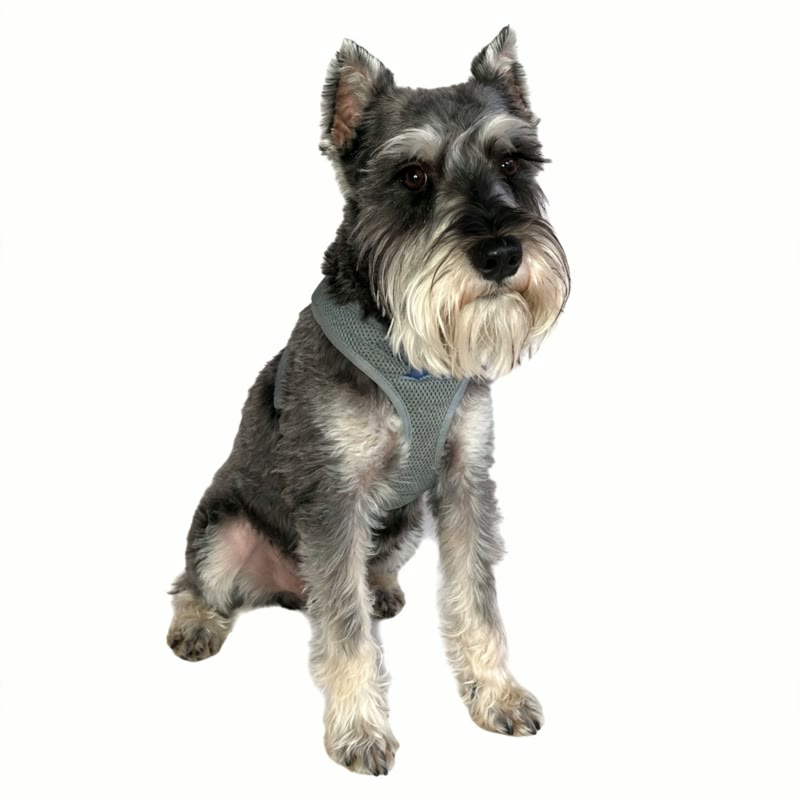
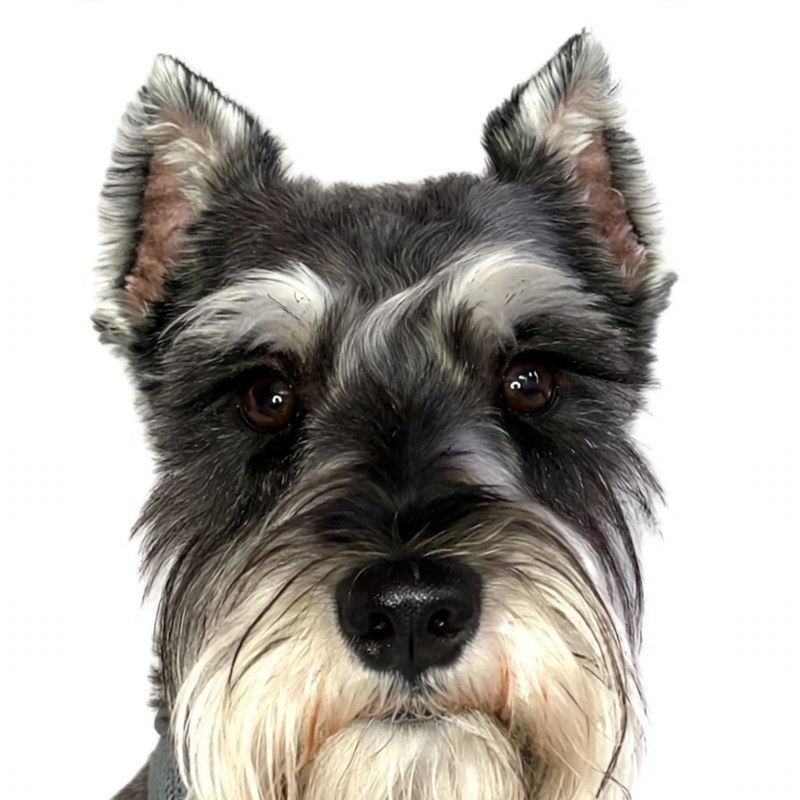
stage v8: v2 portrait puppet (Howard-approved likeness) — puppet2 layers from lash-portrait-v2.png, v2 medallion poster; v1 assets kept

diff --git a/stage.html b/stage.html
@@ -297,16 +297,18 @@ function faceTalk(on) { faceShow(on ? 'talk' : 'idle'); }
 // envelope (text lane, relay-WS and GitHub transports) get a synthesized
 // envelope from the text: one decaying pulse per syllable.
 //
-// Geometry constants mirror puppet/manifest.json (frame = the 900x900
-// crop at source (470,0) of the avatar still).
+// Geometry constants mirror puppet/manifest2.json (stage v8 layers:
+// frame = the 1000x1000 region at source (318,20) of the approved
+// front-facing portrait lash-portrait-v2.png, resampled x0.9 onto the
+// 900x900 canvas — see puppet/cut_layers_v2.py).
 const PUP_EAR = {
-  L: {dx: 140, dy: 35, px: 230, py: 335, img: 'earL', dir: -1},
-  R: {dx: 505, dy: 25, px: 582, py: 232, img: 'earR', dir: 1},
+  L: {dx: 123, dy: 4, px: 258, py: 338, img: 'earL', dir: -1},
+  R: {dx: 474, dy: 0, px: 625, py: 322, img: 'earR', dir: 1},
 };
-const PUP_WARP = {x: 300, y: 540, w: 480, h: 205, peakY: 695,
-                  mx: 588, my: 580, travel: 17, step: 9};
-const PUP_PIVOT = [410, 830];
-const PUP_BLINK = {L: [340, 322], R: [542, 309]};
+const PUP_WARP = {x: 215, y: 608, w: 490, h: 282, peakY: 842,
+                  mx: 460, my: 655, travel: 20, step: 9};
+const PUP_PIVOT = [460, 852];
+const PUP_BLINK = {L: [272, 324], R: [516, 311]};
 
 function puppetSetState(name) {
   if (name === 'make') PUP.bounceT0 = performance.now();
@@ -384,9 +386,9 @@ function puppetEnable() {
   requestAnimationFrame(puppetFrame);
 }
 (function puppetLoad() {
-  const files = {base: 'puppet-base.webp', earL: 'puppet-ear-l.webp',
-                 earR: 'puppet-ear-r.webp', blinkL: 'puppet-blink-l.webp',
-                 blinkR: 'puppet-blink-r.webp'};
+  const files = {base: 'puppet2-base.webp', earL: 'puppet2-ear-l.webp',
+                 earR: 'puppet2-ear-r.webp', blinkL: 'puppet2-blink-l.webp',
+                 blinkR: 'puppet2-blink-r.webp'};
   const need = ['base', 'earL', 'earR'];
   let ok = 0, dead = false;
   for (const [k, f] of Object.entries(files)) {
